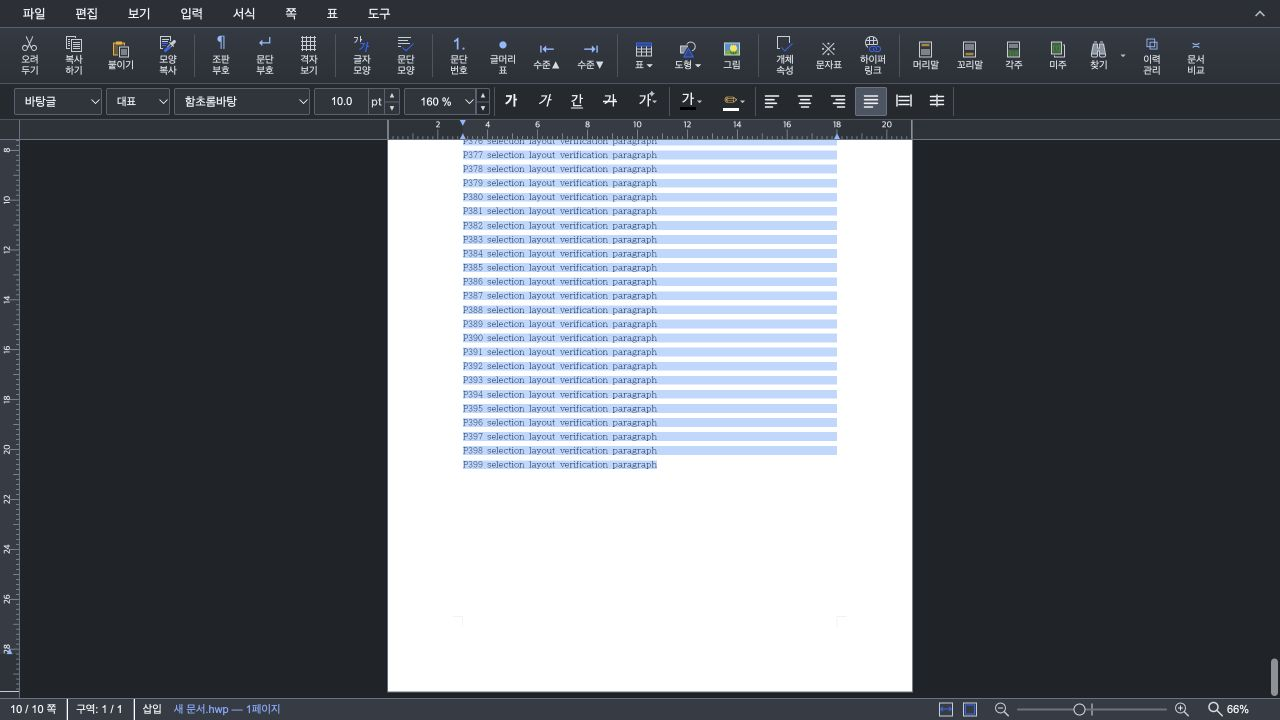
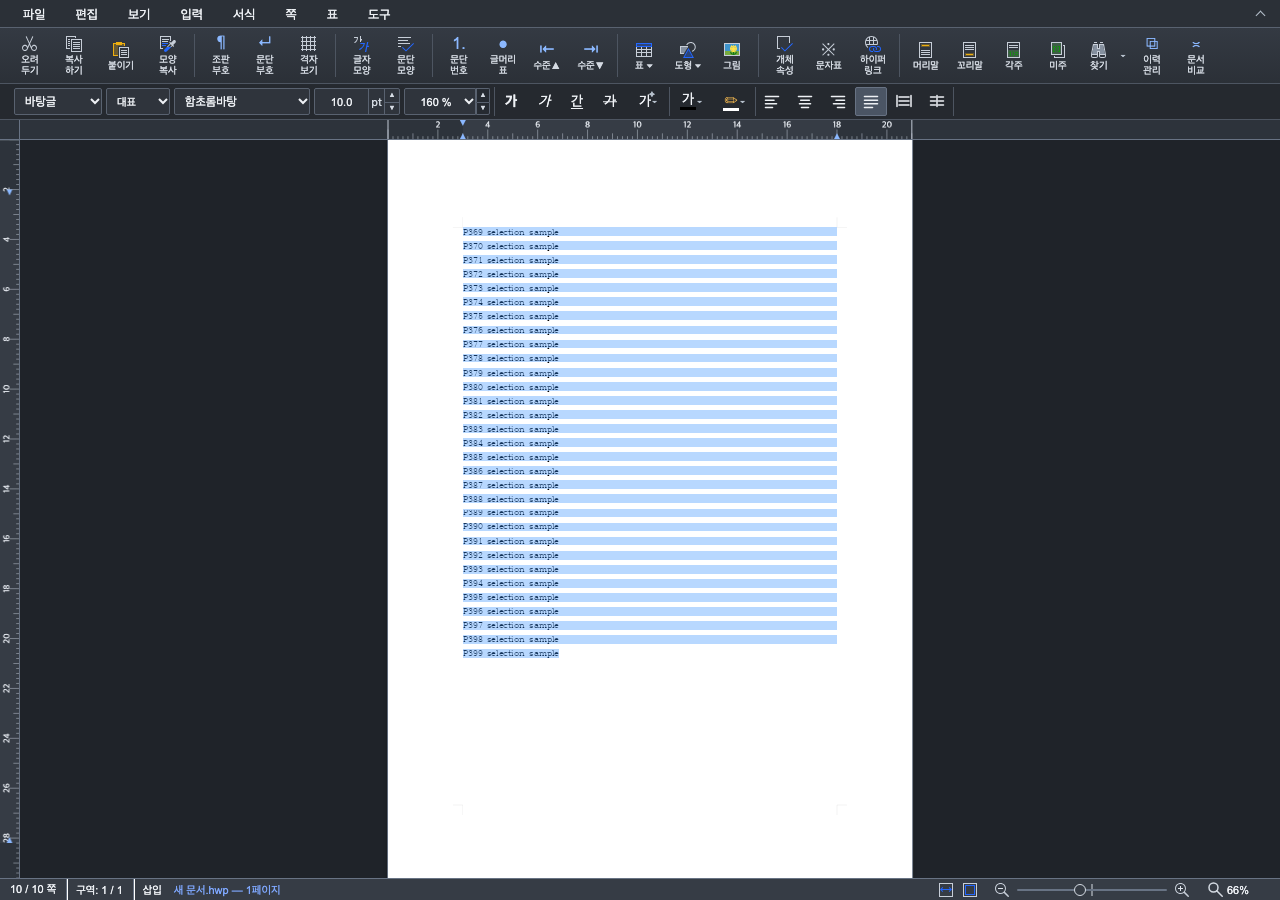
fix(studio): recover renderer preparation failures for current revision

Changed region(s): [[0.0, 0.0, 0.9375, 0.7333], [0.0, 0.8861, 1.0, 1.0]]

diff --git a/rhwp-studio/src/view/canvas-view.ts b/rhwp-studio/src/view/canvas-view.ts
@@ -261,15 +261,8 @@ export class CanvasView {
     const epoch = this.rendererSelectionEpoch;
     this.documentLoadPrepared = false;
     if (this.disposed) return;
-    const selection = await this.rendererSession.resolve(this.wasm);
-    if (this.disposed || epoch !== this.rendererSelectionEpoch || !this.rendererSession.isCurrent(selection)) return;
-    await this.wasm.prepareCanvasMetrics(selection.backend, () => !this.disposed && epoch === this.rendererSelectionEpoch && this.rendererSession.isCurrent(selection));
-    if (
-      this.disposed
-      || epoch !== this.rendererSelectionEpoch
-      || !this.rendererSession.isCurrent(selection)
-    ) return;
-    this.applyRendererSelection(selection);
+    const selected = await this.prepareRendererRevision(epoch, () => this.rendererSession.resolve(this.wasm));
+    if (!selected) return;
 
     const pageCount = this.wasm.pageCount;
     this.pages = [];
@@ -459,15 +452,8 @@ export class CanvasView {
     if (!pinned) return this.selectNextDocumentRevision();
 
     const epoch = ++this.rendererSelectionEpoch;
-    const isCurrent = () => !this.disposed
-      && epoch === this.rendererSelectionEpoch
-      && this.rendererSession.isCurrent(pinned);
-    const selected = {
-      selection: pinned,
-      backendChanged: (await this.wasm.prepareCanvasMetrics(pinned.backend, isCurrent)) || this.zoomRefreshRequired,
-    };
-    if (!isCurrent()) return null;
-    selected.backendChanged = this.applyRendererSelection(pinned) || selected.backendChanged;
+    const selected = await this.prepareRendererRevision(epoch, () => Promise.resolve(pinned));
+    if (!selected) return null;
     this.scheduleAutoRendererReselection();
     return selected;
   }
@@ -499,23 +485,41 @@ export class CanvasView {
     if (this.disposed) return null;
     this.zoomRefreshRequired = this.viewportManager.cancelPendingZoomRaster() || this.zoomRefreshRequired;
     const epoch = ++this.rendererSelectionEpoch;
-    this.rendererSelectionPending = true;
-    this.rendererSession.invalidateDocument({ resetResources });
-    await Promise.resolve();
-    if (this.disposed || epoch !== this.rendererSelectionEpoch) return null;
+    return this.prepareRendererRevision(epoch, async () => {
+      this.rendererSession.invalidateDocument({ resetResources });
+      await Promise.resolve();
+      if (this.disposed || epoch !== this.rendererSelectionEpoch) return null;
+      return this.rendererSession.resolve(this.wasm);
+    });
+  }
 
-    const selection = await this.rendererSession.resolve(this.wasm);
-    if (this.disposed || epoch !== this.rendererSelectionEpoch || !this.rendererSession.isCurrent(selection)) return null;
-    const metricsChanged = await this.wasm.prepareCanvasMetrics(selection.backend, () => !this.disposed && epoch === this.rendererSelectionEpoch && this.rendererSession.isCurrent(selection));
-    if (
-      this.disposed
-      || epoch !== this.rendererSelectionEpoch
-      || !this.rendererSession.isCurrent(selection)
-    ) return null;
-    return {
-      selection,
-      backendChanged: this.applyRendererSelection(selection) || metricsChanged,
-    };
+  /** 성공·실패 모두 현재 revision만 준비 상태를 확정한다. */
+  private async prepareRendererRevision(
+    epoch: number,
+    resolve: () => Promise<RendererSessionSelection | null>,
+  ): Promise<{ selection: RendererSessionSelection; backendChanged: boolean } | null> {
+    this.rendererSelectionPending = true;
+    const current = () => !this.disposed && epoch === this.rendererSelectionEpoch;
+    let selection: RendererSessionSelection | null;
+    let metricsChanged: boolean;
+    try {
+      selection = await resolve();
+      if (!selection || !current() || !this.rendererSession.isCurrent(selection)) return null;
+      const preparedSelection = selection;
+      metricsChanged = await this.wasm.prepareCanvasMetrics(selection.backend,
+        () => current() && this.rendererSession.isCurrent(preparedSelection));
+      if (!current() || !this.rendererSession.isCurrent(selection)) return null;
+    } catch (error) {
+      if (!current()) return null;
+      // 실패한 준비를 반복하거나 자원이 무효화된 이전 CanvasKit으로 replay하지 않는다.
+      // CanvasMetricSession과 같은 portable metric 경로로 현재 문서를 다시 그린다.
+      this.wasm.invalidateCanvasMetrics();
+      const selection = this.rendererSession.fallbackFromPreparationFailure(error);
+      this.applyRendererSelection(selection);
+      console.warn('[CanvasView] renderer 준비 실패: portable Canvas2D로 복구', error);
+      return { selection, backendChanged: true };
+    }
+    return { selection, backendChanged: this.applyRendererSelection(selection) || metricsChanged };
   }
 
   private applyRendererSelection(selection: RendererSessionSelection): boolean {

diff --git a/rhwp-studio/src/view/renderer-session.ts b/rhwp-studio/src/view/renderer-session.ts
@@ -19,7 +19,8 @@ export type RendererSelectionReason =
   | 'superseded'
   | 'canvaskitInitializationFailed'
   | 'canvaskitResourcePreparationFailed'
-  | 'canvaskitRuntimeFailed';
+  | 'canvaskitRuntimeFailed'
+  | 'rendererPreparationFailed';
 
 export interface RendererSessionDiagnostics {
   schemaVersion: 1;
@@ -205,6 +206,12 @@ export class RendererSession {
       'canvaskitRuntimeFailed',
       'canvaskitRuntimeFailed',
     );
+  }
+
+  /** CanvasView가 현재 epoch의 준비 실패를 확인한 뒤에만 호출한다. */
+  fallbackFromPreparationFailure(error: unknown): RendererSessionSelection {
+    return this.fallbackForCurrentDecision(error, this.decisionKey(),
+      'rendererPreparationFailed', 'rendererPreparationFailed')!;
   }
 
   private fallbackForCurrentDecision(

diff --git a/rhwp-studio/src/view/render-backend.ts b/rhwp-studio/src/view/render-backend.ts
@@ -15,7 +15,8 @@ export type RenderBackendFallbackReason =
   | 'canvaskitRevisionInvalidated'
   | 'canvaskitInitializationFailed'
   | 'canvaskitResourcePreparationFailed'
-  | 'canvaskitRuntimeFailed';
+  | 'canvaskitRuntimeFailed'
+  | 'rendererPreparationFailed';
 export type RenderBackendRequestSource = 'default' | 'url';
 
 export interface CanvasKitSurfaceRequest {

diff --git a/mydocs/report/task_m100_8103_report.md b/mydocs/report/task_m100_8103_report.md
@@ -444,3 +444,25 @@ base `9418ed0c7cf289c5c4ac2b3bb8cdc18a1b637a9a`, 실행 head
[2 lines of base64/hex data omitted]
 이후 제출 커밋은 이 기록과 최신 PNG만 갱신한다. 생성 wrapper는 커밋하지 않는다.
+
+## 2026-10-26 self-review P2 보정
+
+기존 code head `5ab102cc6b55af8c3a6776e217d3840fe74dffb4`에서 준비 Promise의
+실패를 주입하면 pending이 남아 스크롤 repaint가 차단됐다. 특정 사용자 파일의 자연 발생
+오류가 아니라 실제 CanvasView와 Chrome에서 검증한 실패 상태 계약이다.
+
+문서 로드·일반 revision·auto 고정 revision이 공통 `prepareRendererRevision`을 사용한다.
+현재 epoch의 실패는 portable metrics와 Canvas2D로 복구하고 준비 상태를 해제한다.
+stale·dispose·문서 교체 뒤 실패는 현재 준비와 선택을 변경하지 않는다. 실패 사유는
+`rendererPreparationFailed`로 진단에 남긴다. 무조건 finally에서 pending을 해제하지 않는다.
+
+검증 결과: Studio unit 2,447 PASS, production build 및 CI unit TypeScript exit 0.
+선택 E2E는 Canvas2D+auto software 314, 강제 CanvasKit 159, auto WebGL 160 PASS다.
+세 경로에서 준비 실패 후 본문·논리 선택·음영 보존과 실제 Canvas2D repaint를 확인했다.
+기존 renderer/command-error 계약, Undo 99, 전체 선택 63, Enter 84와 줌 대화상자도 통과했다.
+로그는 ignored `output/pr-review/8196/fix-*.log`, 최종 unit/types/build는 `final-*.log`에 있다.
+
+WASM은 같은 Rust 입력으로 10월 24일 fresh 빌드했던 산출물을 재사용했다. Rust 조판·paint
+기하와 출력 기대값 변경은 없다. DOM 선택 투영·renderer 준비 수명 검증을 한컴 Print fidelity
+검증으로 주장하지 않는다. 새 WebGL 66% 마지막 쪽 PNG를 직접 열어 P369~P399의 본문과
+음영을 확인하고 제출 asset을 갱신했다. 새 code head CI와 최종 self-review는 후속 기록한다.
